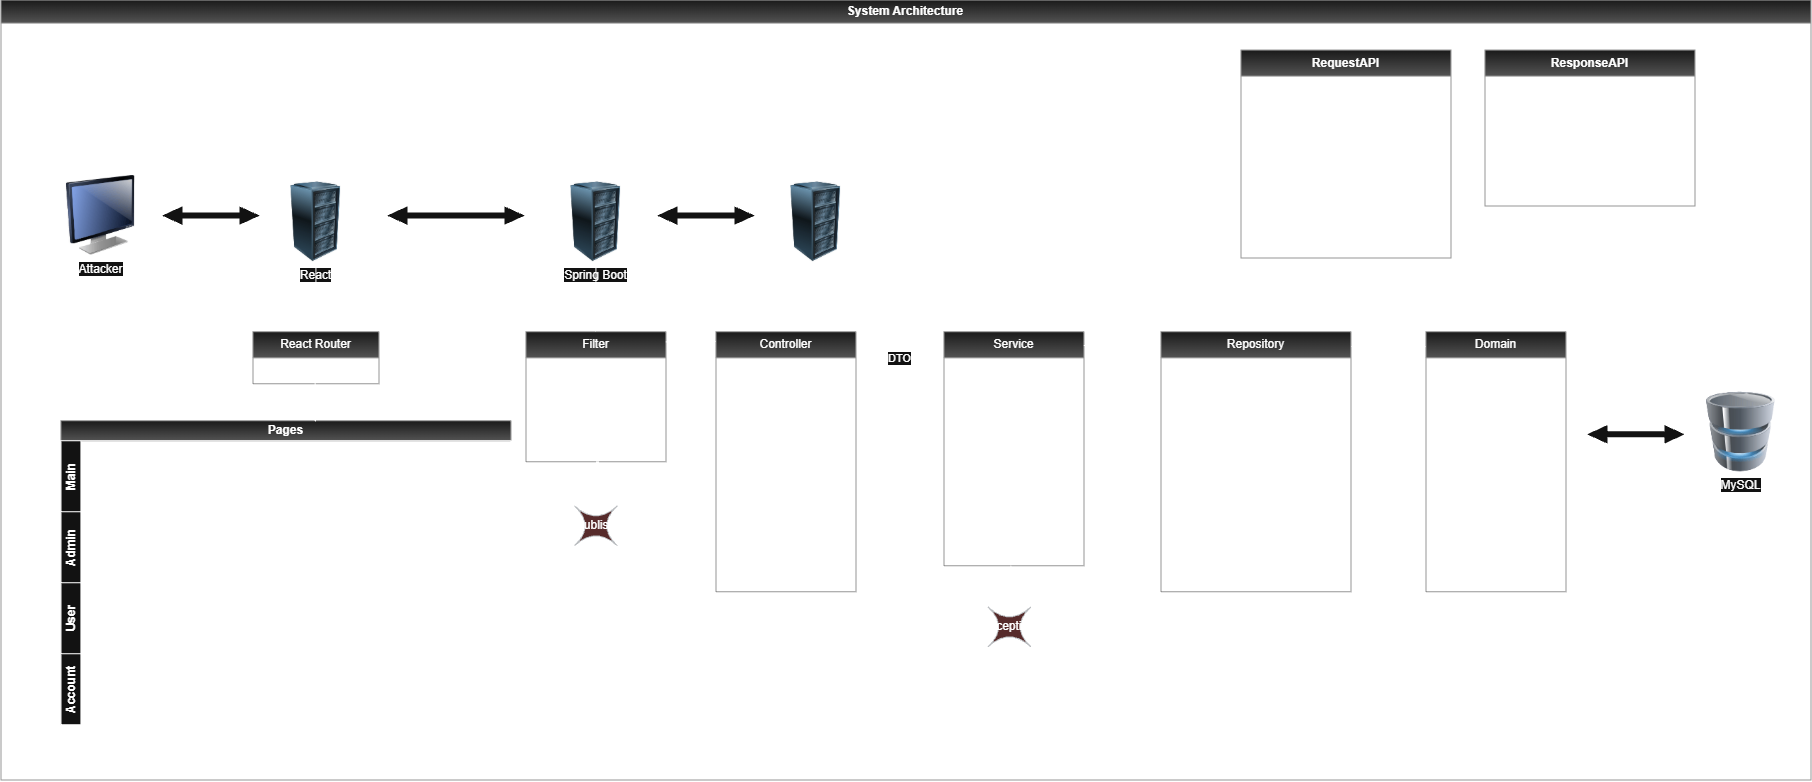
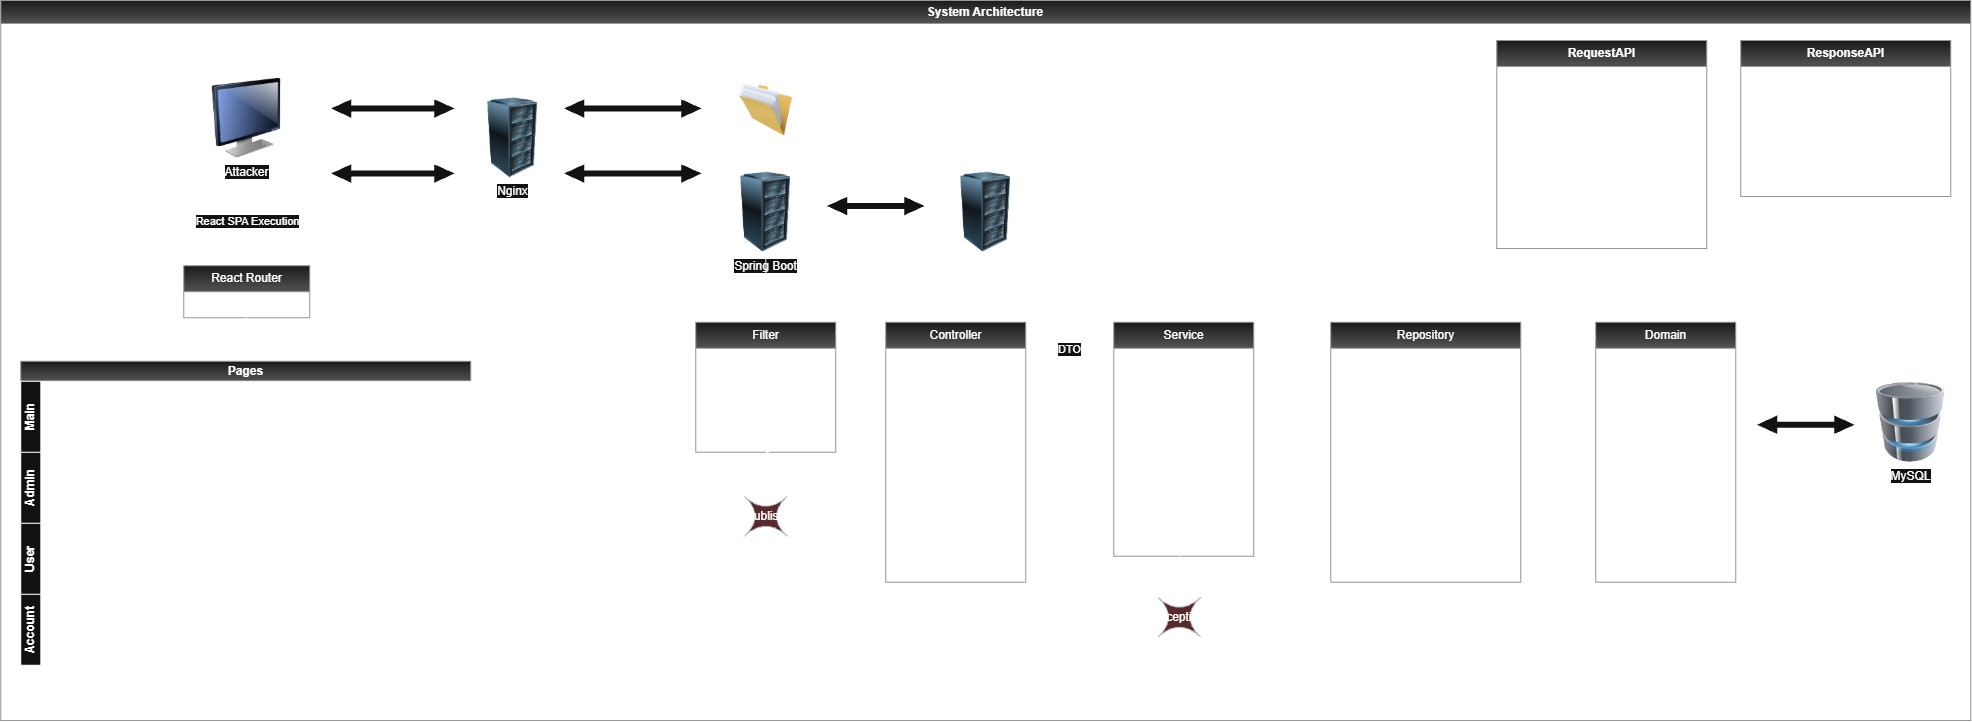
Docker 설정 완료

diff --git a/frontend/src/pages/adminPage/NoticeManagement.jsx b/frontend/src/pages/adminPage/NoticeManagement.jsx
@@ -299,7 +299,7 @@ export default function NoticeManagement() {
                                             {selectedQna.content || "내용이 없습니다."}
                                         </div>
 
-                                        {/* 취약한 버전 (window.location.href에 링크 직접 주입) */}
+                                        {/* 취약한 버전 (window.location.href에 링크 직접 주입)
                                         <div style={styles.qnaLinkBox}>
                                             <span style={styles.linkTitle}>🔗 {selectedQna.link ? (
                                                 <span
@@ -313,9 +313,9 @@ export default function NoticeManagement() {
                                             ) : (
                                                 <span style={styles.noLinkText}>등록된 참고링크가 없습니다.</span>
                                             )}</span>
-                                        </div>
+                                        </div>*/}
 
-                                        {/*안전한 버전 (텍스트 형태로 링크 출력)
+                                        {/*안전한 버전 (텍스트 형태로 링크 출력)*/}
 
                                         <div style={styles.qnaLinkBox}>
                                             <span style={styles.linkTitle}>🔗 {selectedQna.link ? (
@@ -325,11 +325,8 @@ export default function NoticeManagement() {
                                             )}</span>
                                         </div>
 
-                                        */}
-
 
                                     </div>
-
                                     <div style={styles.inputGroup}>
                                         <label style={styles.inputLabel}>답변 내용</label>
                                         <textarea

diff --git a/frontend/src/contexts/accountContext/AccountProvider.jsx b/frontend/src/contexts/accountContext/AccountProvider.jsx
@@ -1,14 +1,17 @@
 import {useState} from "react";
 import {AccountContext} from "./AccountContext.jsx";
 import {getApi, patchApi} from "../../components/RequestApi.jsx";
+
+/* 취약한 버전
 import {useAuth} from "../authContext/UseAuth.jsx";
+ */
 
 export function AccountProvider({ children }) {
 
     const [account, setAccount] = useState(null);
-    const {session} = useAuth();
 
-    /*계정 조회(안전한 버전)
+
+    /*계정 조회(안전한 버전)*/
     const getAccount = async () => {
         try {
             const response = await getApi('/user', {}, true);
@@ -18,12 +21,12 @@ export function AccountProvider({ children }) {
             const customError = error.response?.data;
             return customError;
         }
-    }*/
+    }
 
-    //계정 조회(취약한 버전)
+    /*계정 조회(취약한 버전)
+    const {session} = useAuth();
     const getAccount = async () => {
         try {
-
             const response = await getApi(`/user/${session.sessionUser.id}`, {}, true);
             setAccount(response.data.data);
             return response.data;
@@ -31,7 +34,7 @@ export function AccountProvider({ children }) {
             const customError = error.response?.data;
             return customError;
         }
-    }
+    }*/
 
     //계좌정보 변경
     const updateBankAccount = async (bankName, accountNum) => {

diff --git a/frontend/src/components/RequestApi.jsx b/frontend/src/components/RequestApi.jsx
@@ -10,7 +10,7 @@ const getCookie = (name) => {
 };
 
 const client = axios.create({
-    baseURL: 'http://localhost:8080/api',
+    baseURL: 'http://34.170.29.236:80/api',
     withCredentials: true,
 });
 

diff --git a/src/main/java/kr/go/support/subsidy/common/FileManager.java b/src/main/java/kr/go/support/subsidy/common/FileManager.java
@@ -38,8 +38,7 @@ public class FileManager {
         return targetPath;
     }
 
-    /*
-    //파일저장(안전한 버전, UUID로 파일명 변경 저장)
+    /* 파일저장(안전한 버전, UUID로 파일명 변경 저장)*/
     public String storeFile(MultipartFile multipartFile) {
 
         //파일 검증
@@ -81,9 +80,9 @@ public class FileManager {
         return originalFilename.substring(pos + 1);
     }
 
-    */
 
-    //파일저장(취약한 버전, 파일명 예측가능하게 변경없이 저장)
+
+    /* 파일저장(취약한 버전, 파일명 예측가능하게 변경없이 저장)
     public String storeFile(MultipartFile multipartFile) {
 
         //파일 검증
@@ -100,13 +99,13 @@ public class FileManager {
 
             File dest = new File(getFullPath(originalFilename).toString());
 
-            /*
-            1. 파일이 존재하지 않을때만 저장
-            2. 개발자가 DocumentService의 파일 소유 검증 로직이 있다는 것을 통해 파일이 이미 존재한다는 것은 본인이 사전에 올린 파일이
-            있다는 의미이기에 파일 덮어쓰기 없이 기존파일에 연결되도록 잘못된 로직을 작성했음
-            3. 실제로는 파일명을 그대로 DB와 실제 물리파일 저장에 사용하기에 DB에 저장된 파일명과 실제 본인소유 물리파일 간의
-            1:1 고유성 매칭이 사라져 ../DEVNOTES.md로 DB에 저장되고 파일소유 검증도 통과되지만 실제 다운로드 되는 파일은 본인소유가 아님
-            */
+
+            //1. 파일이 존재하지 않을때만 저장
+            //2. 개발자가 DocumentService의 파일 소유 검증 로직이 있다는 것을 통해 파일이 이미 존재한다는 것은 본인이 사전에 올린 파일이
+            //   있다는 의미이기에 파일 덮어쓰기 없이 기존파일에 연결되도록 잘못된 로직을 작성했음
+            //3. 실제로는 파일명을 그대로 DB와 실제 물리파일 저장에 사용하기에 DB에 저장된 파일명과 실제 본인소유 물리파일 간의
+            //   1:1 고유성 매칭이 사라져 ../DEVNOTES.md로 DB에 저장되고 파일소유 검증도 통과되지만 실제 다운로드 되는 파일은 본인소유가 아님
+
             if (!dest.exists()) {
                 multipartFile.transferTo(dest);}
 
@@ -115,7 +114,7 @@ public class FileManager {
         } catch (IOException e) {
             throw new IllegalArgumentException("파일 저장 중 오류가 발생했습니다.", e);
         }
-    }
+    } */
 
 
     //파일삭제

diff --git a/src/main/java/kr/go/support/subsidy/common/auth/FileUploadValidator.java b/src/main/java/kr/go/support/subsidy/common/auth/FileUploadValidator.java
@@ -14,22 +14,21 @@ import java.util.Set;
 @Component
 public class FileUploadValidator {
 
-    /*
-    //안전한 버전(필요한 서류만 화이트리스트 방식으로 허용, Path Traversal 검증)
+    /*안전한 버전(필요한 서류만 화이트리스트 방식으로 허용, Path Traversal 검증)*/
     private static final Set<String> ALLOWED_EXTENSIONS =
             Set.of("jpg", "jpeg", "png");
 
     private static final Set<String> ALLOWED_MIME_TYPES =
             Set.of("image/jpeg", "image/png");
-     */
 
-    //취약한 버전(불필요한 파일까지 허용, Path Traversal 검증 누락)
+
+    /*취약한 버전(불필요한 파일까지 허용, Path Traversal 검증 누락)
     private static final Set<String> ALLOWED_EXTENSIONS =
             Set.of("jpg", "jpeg", "png", "md", "txt");
 
     private static final Set<String> ALLOWED_MIME_TYPES =
             Set.of("image/jpeg", "image/png", "text/markdown", "text/plain");
-
+    */
 
 
     private final Tika tika = new Tika();

diff --git a/src/main/java/kr/go/support/subsidy/controller/AccountController.java b/src/main/java/kr/go/support/subsidy/controller/AccountController.java
@@ -110,23 +110,23 @@ public class AccountController {
         return ResponseApi.success(userId);
     }
 
-    /*본인 계정조회(안전한 버전)
+    /*본인 계정조회(안전한 버전)*/
     @GetMapping
     public ResponseApi<UserResponseDto> getUsers(
             @SessionAttribute(name = "loginUser") SessionUser sessionUser){
 
         UserResponseDto response = accountService.getUser(sessionUser.getId());
         return ResponseApi.success(response);
-    }*/
+    }
 
-    //본인 계정조회(취약한 버전, 부적절한 세션검증, 클라이언트 신뢰)
+    /*본인 계정조회(취약한 버전, 부적절한 세션검증, 클라이언트 신뢰)
     @GetMapping("/{userId}")
     public ResponseApi<UserResponseDto> getUsers(
             @PathVariable Long userId){
 
         UserResponseDto response = accountService.getUser(userId);
         return ResponseApi.success(response);
-    }
+    }*/
 
     //계정조회(Admin)
     @GetMapping("/admin")

diff --git a/src/main/java/kr/go/support/subsidy/service/LogService.java b/src/main/java/kr/go/support/subsidy/service/LogService.java
@@ -34,21 +34,20 @@ public class LogService {
             return result;
         }
 
-        /*
-        //검색 조회(안전한 버전, 레포지토리를 이용)
+        /*검색 조회(안전한 버전, 레포지토리를 이용)*/
         List<LogResponseDto> result = logRepository.findByApiUrlContainingIgnoreCase(dto.apiUrl()).stream()
                 .map(LogResponseDto::from)
                 .toList();
         return result;
-        */
 
-        //검색 조회(취약한 버전, 동적 SQL문 생성 실행)
+
+        /*검색 조회(취약한 버전, 동적 SQL문 생성 실행)
         String sql = "SELECT * FROM request_logs WHERE api_url LIKE LOWER('%" + dto.apiUrl() + "%')";
         List<Log> result = entityManager.createNativeQuery(sql, Log.class).getResultList();
 
         return result.stream()
                 .map(LogResponseDto::from)
-                .toList();
+                .toList();*/
     }
 
     //요청로그 저장(Event)

diff --git a/src/main/java/kr/go/support/subsidy/config/WebConfig.java b/src/main/java/kr/go/support/subsidy/config/WebConfig.java
@@ -19,13 +19,14 @@ import tools.jackson.databind.ObjectMapper;
 @Configuration
 public class WebConfig implements WebMvcConfigurer {
 
-    //CORS 필터 적용
+    // 배포시 nginx를 거치기에 백엔드 자체의 외부포트는 닫혀있다.
+    // 그래서 CORS 필터 적용은 필요 없지만 만약 외부포트를 열 경우에는 필요하다.
     @Bean
     public FilterRegistrationBean<CorsFilter> corsFilter() {
         UrlBasedCorsConfigurationSource source = new UrlBasedCorsConfigurationSource();
         CorsConfiguration config = new CorsConfiguration();
         config.setAllowCredentials(true);
-        config.addAllowedOriginPattern("http://localhost:3000");
+        config.addAllowedOriginPattern("http://34.170.29.236:80");
         config.addAllowedHeader("*");
         config.addAllowedMethod("*");
 
